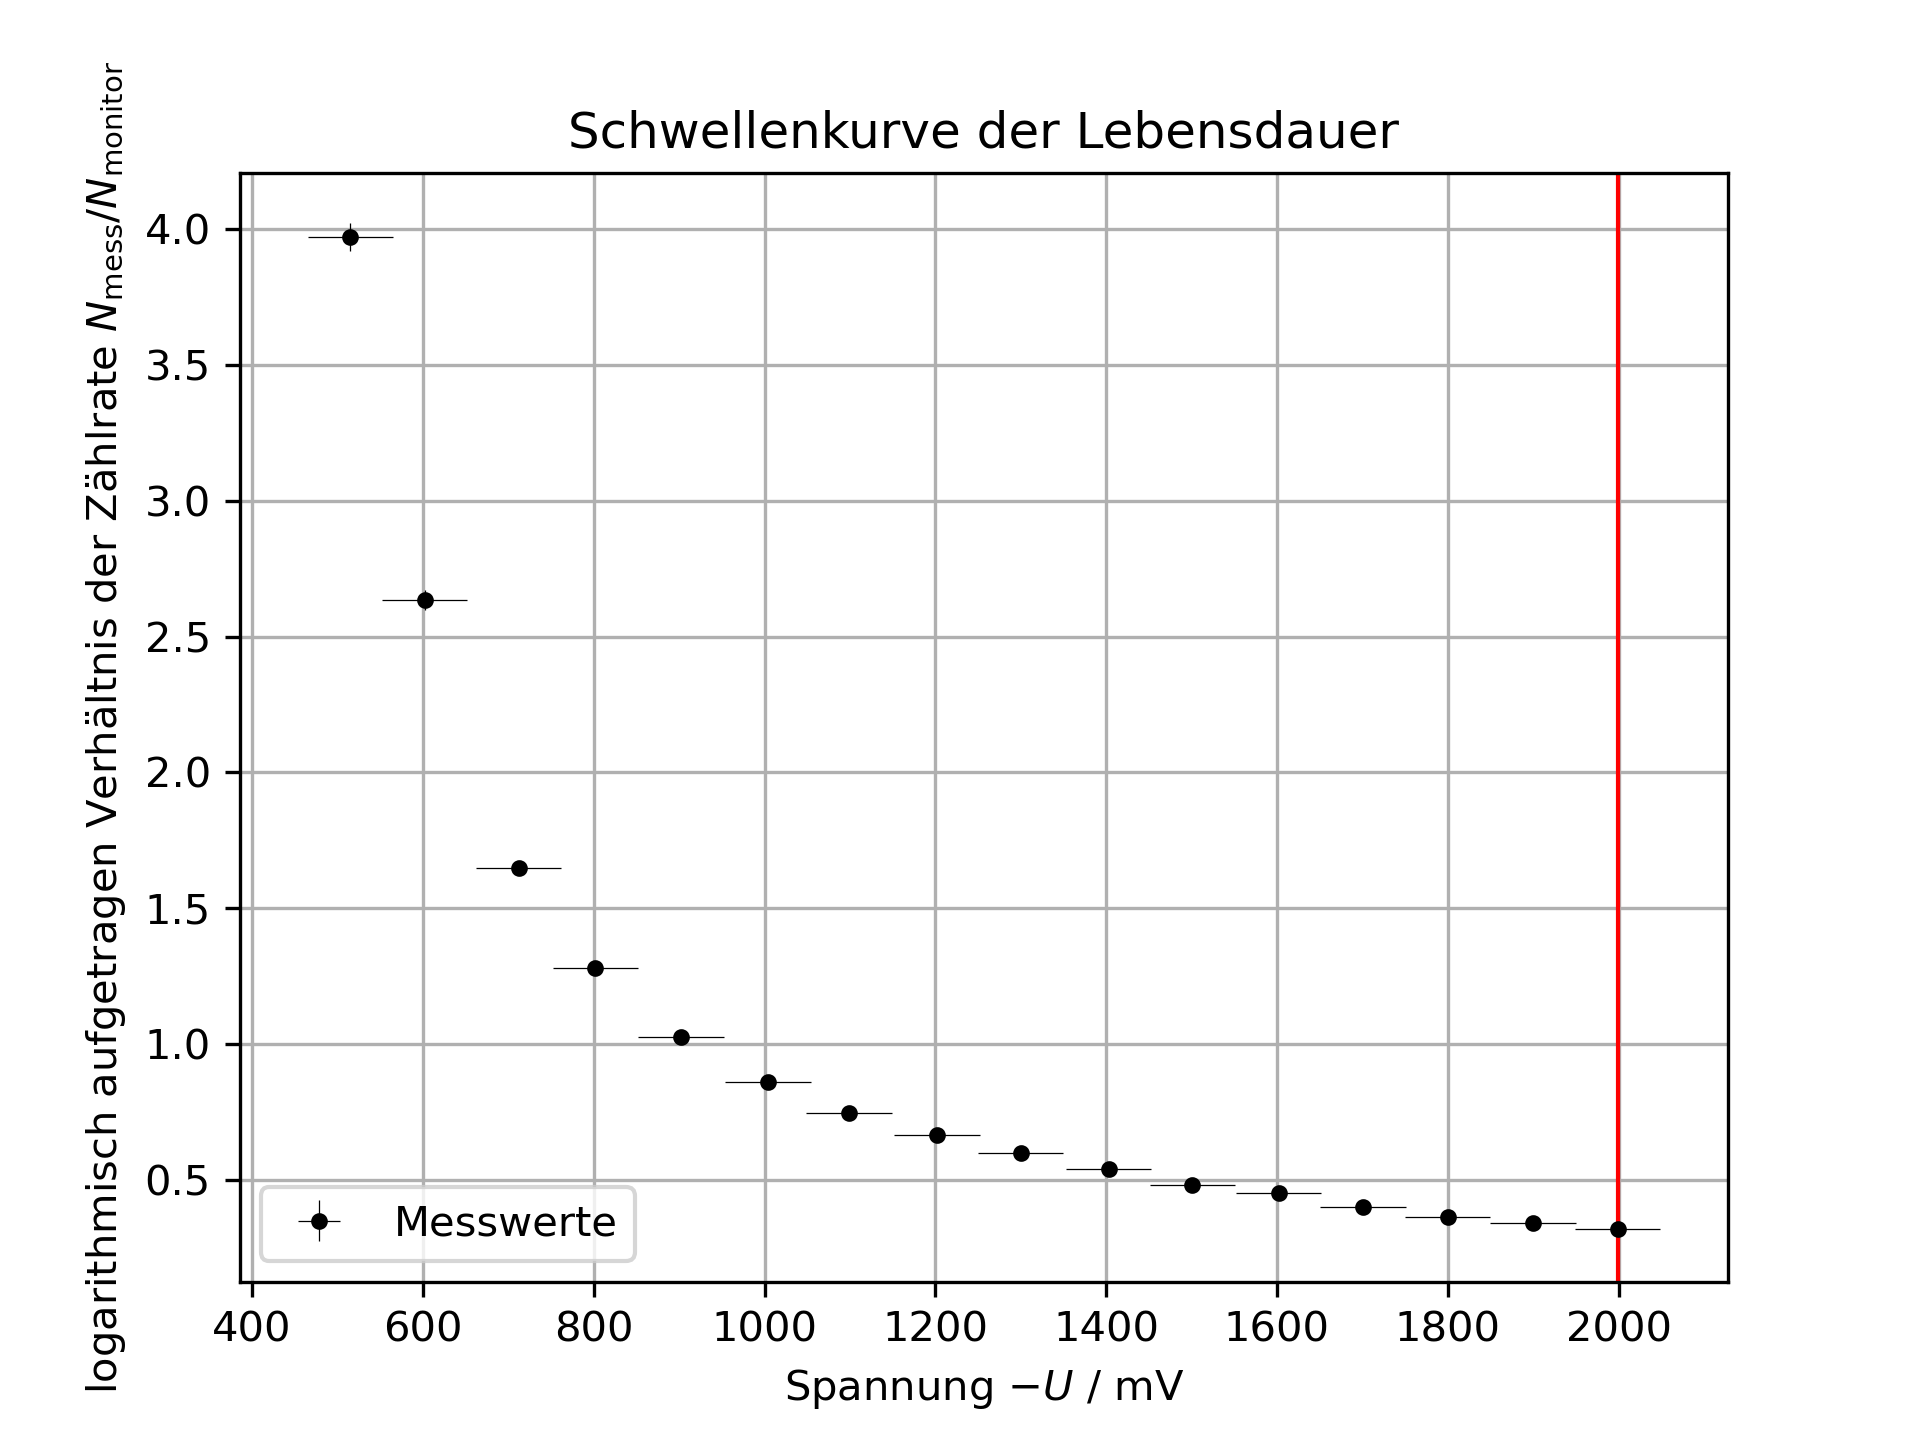
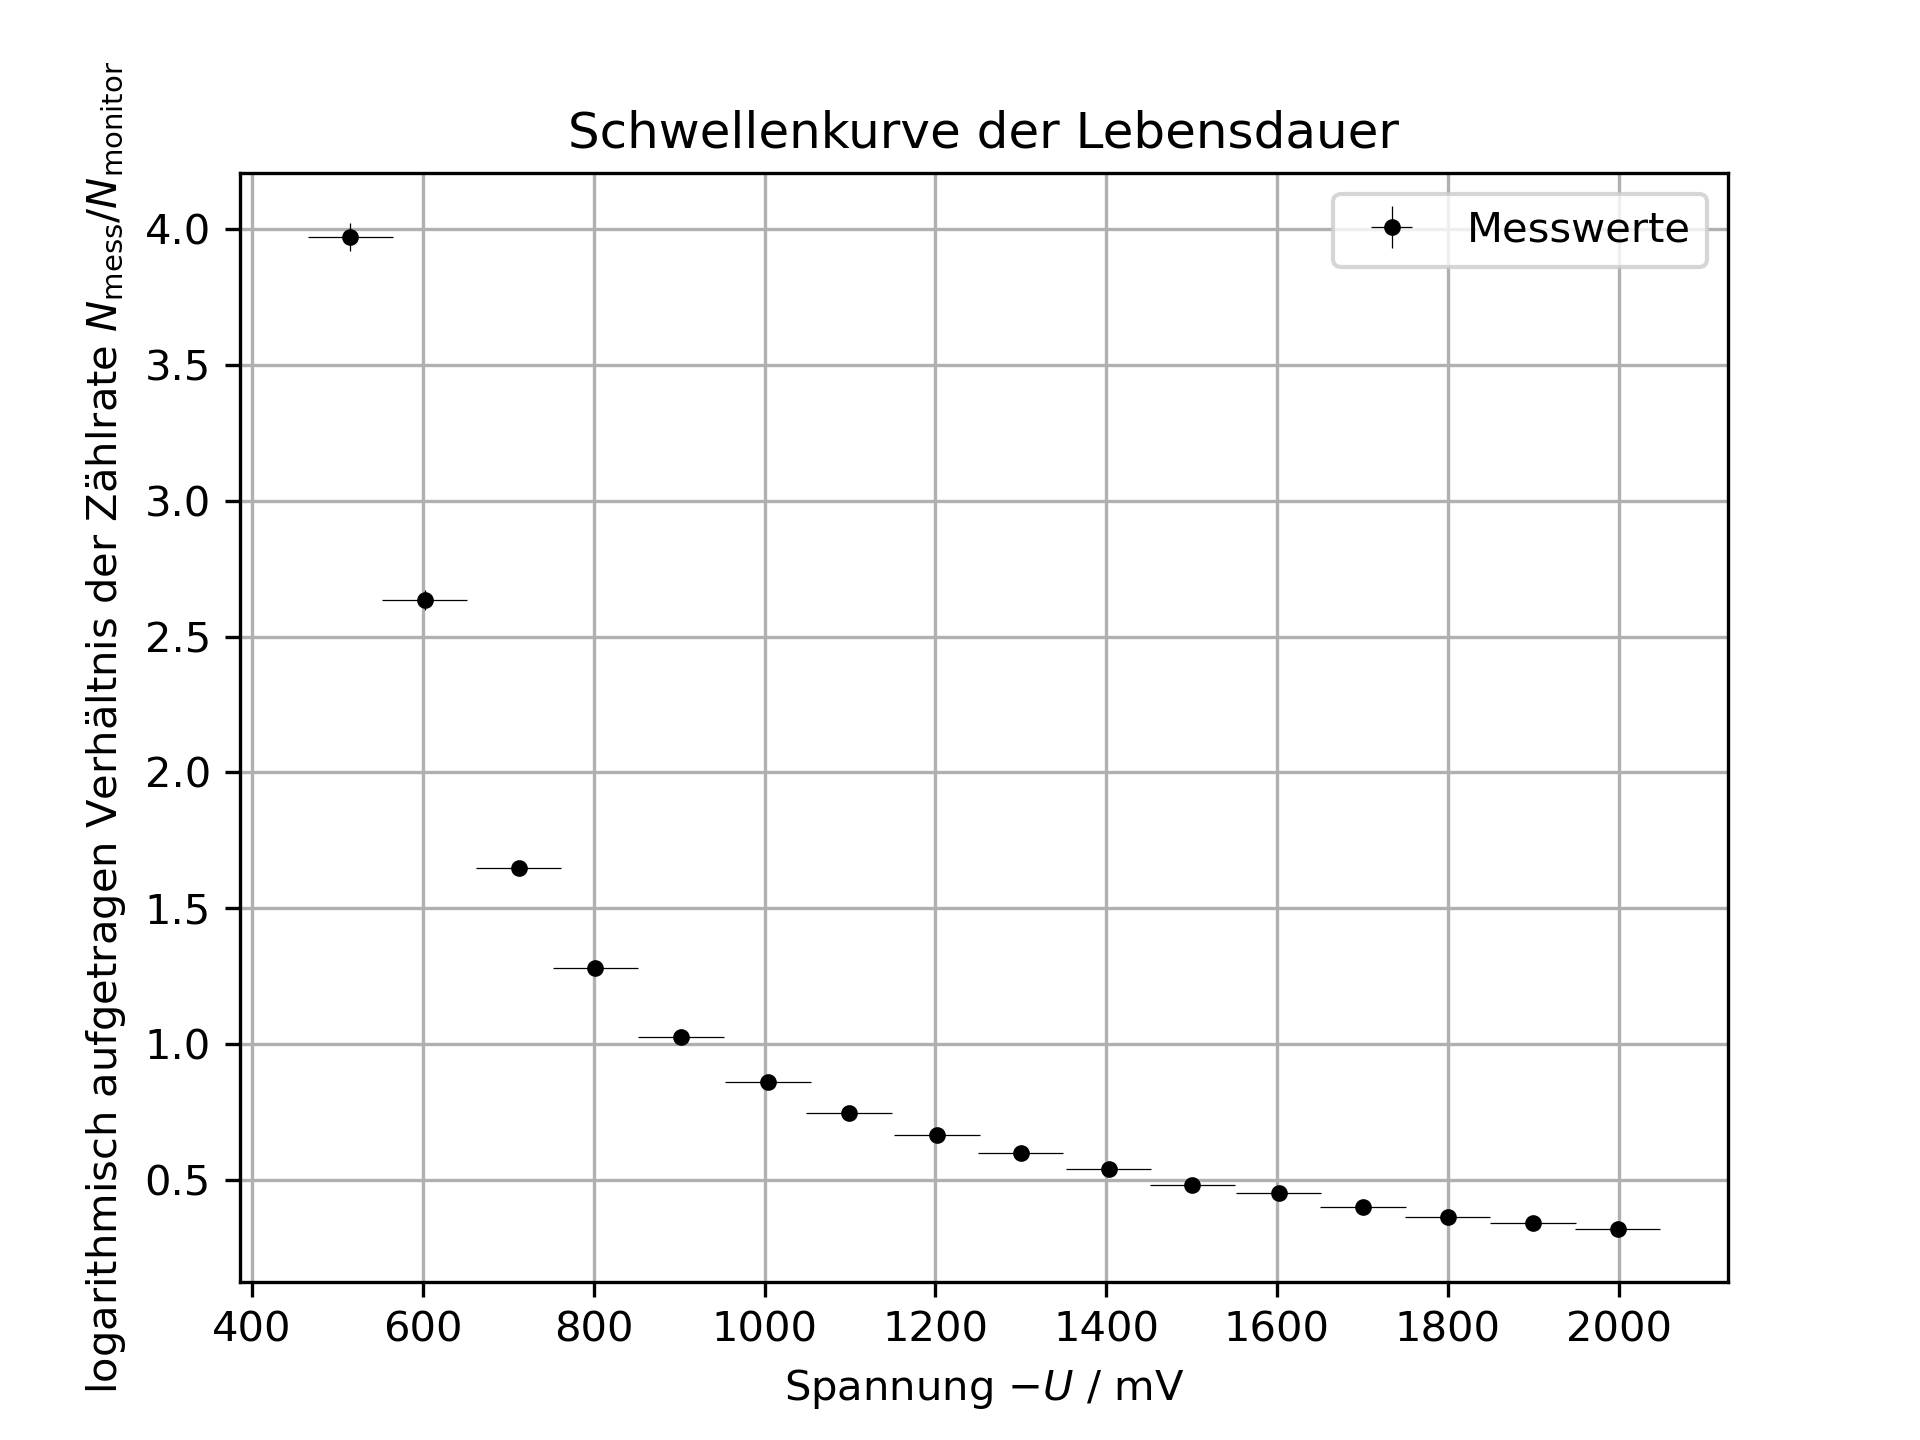
lebensdauer finished

Changed region(s): [[0.6875, 0.125, 0.9062, 0.1875], [0.1562, 0.8125, 0.3438, 0.875]]

diff --git a/Praktikum 5/V518/Lebensdauer/Schwellenspannung_Lebensdauer.py b/Praktikum 5/V518/Lebensdauer/Schwellenspannung_Lebensdauer.py
@@ -35,12 +35,8 @@ data[2][data[2] == 0] = 1e-6
 N_mess = data[1]
 N_mon = data[2]
 y= N_mess/N_mon
-##yerr = np.log(y * np.sqrt( (1/data[1]) + (1/data[2]) ) )
-#print (yerr)
 yerr = np.full(len(data[1]), 0.1)
-print((y))
 yerr = y * np.sqrt(1/N_mess + 1/N_mon)
-print(yerr)
 xerr = np.full(16, 50)
 dy_dx = np.gradient(y, data[0])
 d2y_dx2 = np.gradient(dy_dx, data[0])
@@ -61,12 +57,8 @@ for i in range(1, len(y)-1):
 dy_dx_err[0] = np.sqrt(yerr[1]**2 + yerr[0]**2) / abs(data[0][1] - data[0][0])
 dy_dx_err[-1] = np.sqrt(yerr[-1]**2 + yerr[-2]**2) / abs(data[0][-1] - data[0][-2])
 
-max_idx = np.argmax(dy_dx)
-wende_x = data[0][max_idx]
-wende_y = y[max_idx]
 
 plt.errorbar(data[0], y, yerr=yerr, xerr=xerr, label="Messwerte", color=colors.pop(0), linewidth=0.3, zorder=3, alpha=1, fmt='o', ms=3)
-plt.axvline(x=wende_x, color='red', linestyle='-', linewidth=1)
 plt.xlabel(r'Spannung $-U$ / mV')
 plt.ylabel(r'logarithmisch aufgetragen Verhältnis der Zählrate $N_\mathrm{mess}/N_\mathrm{monitor}$')
 plt.legend()
@@ -75,33 +67,12 @@ plt.title(figure_title)
 save(dir_path + "/../Latex/figures/" + save_name)
 
 plt.figure()
-plt.errorbar(data[0], d2y_dx2, xerr=xerr, yerr=d2y_dx2_err, label="Messwerte", color=colors.pop(0), linewidth=0.3, zorder=3, alpha=1, fmt='o', ms=3)
+plt.errorbar(data[0], d2y_dx2, xerr=xerr, yerr=d2y_dx2_err, label="Messwerte", color="black", linewidth=0.3, zorder=3, alpha=1, fmt='o', ms=3)
+
 plt.xlabel(r'Spannung $-U$ / mV')
 plt.ylabel(r'Ableitung $d(N_\mathrm{mess}/N_\mathrm{monitor})/dU$')
+plt.axvline(x=1600, color='red', linestyle='-', linewidth=1)
 plt.legend()
 plt.grid(True)
 plt.title("Numerische Ableitung der Schwellenkurve")
 save(dir_path + "/../Latex/figures/" + save_name2)
-
-popt, pcov = curve_fit(f=linear, xdata=data[0], ydata=y, sigma=yerr, absolute_sigma=True, maxfev=10000)
-fit_values = popt
-fit_value_errors = np.diag(pcov)
-residuals = y - linear(data[0], *popt)
-chi_squared = np.sum((residuals / yerr) ** 2)
-
-
-for j in range(2):
-    print(f"{j}:\t{fit_values[j]}\t± {fit_value_errors[j]}")
-print(f"\tChi: {chi_squared}")
-
-plt.figure()
-plt.errorbar(data[0], y, yerr=yerr, xerr=xerr, label="Messwerte", color=colors.pop(0), linewidth=0.3, zorder=3, alpha=1, fmt='o', ms=3)
-x_fit = np.linspace(min(data[0]), max(data[0]), 300)
-plt.plot(x_fit, linear(x_fit, *popt), color='black', label='Lineare Anpassung an das logarithmische Verhältnis', linewidth=0.3)
-plt.xlabel(r'Spannung $-U$ / mV')
-plt.ylabel(r'Verhältnis der Zählraten $N_\mathrm{Koin.}/N_{25}$')
-plt.legend()
-plt.grid(True)
-plt.title(figure_title)
-
-save(dir_path + "/../Latex/figures/" + save_name3)
